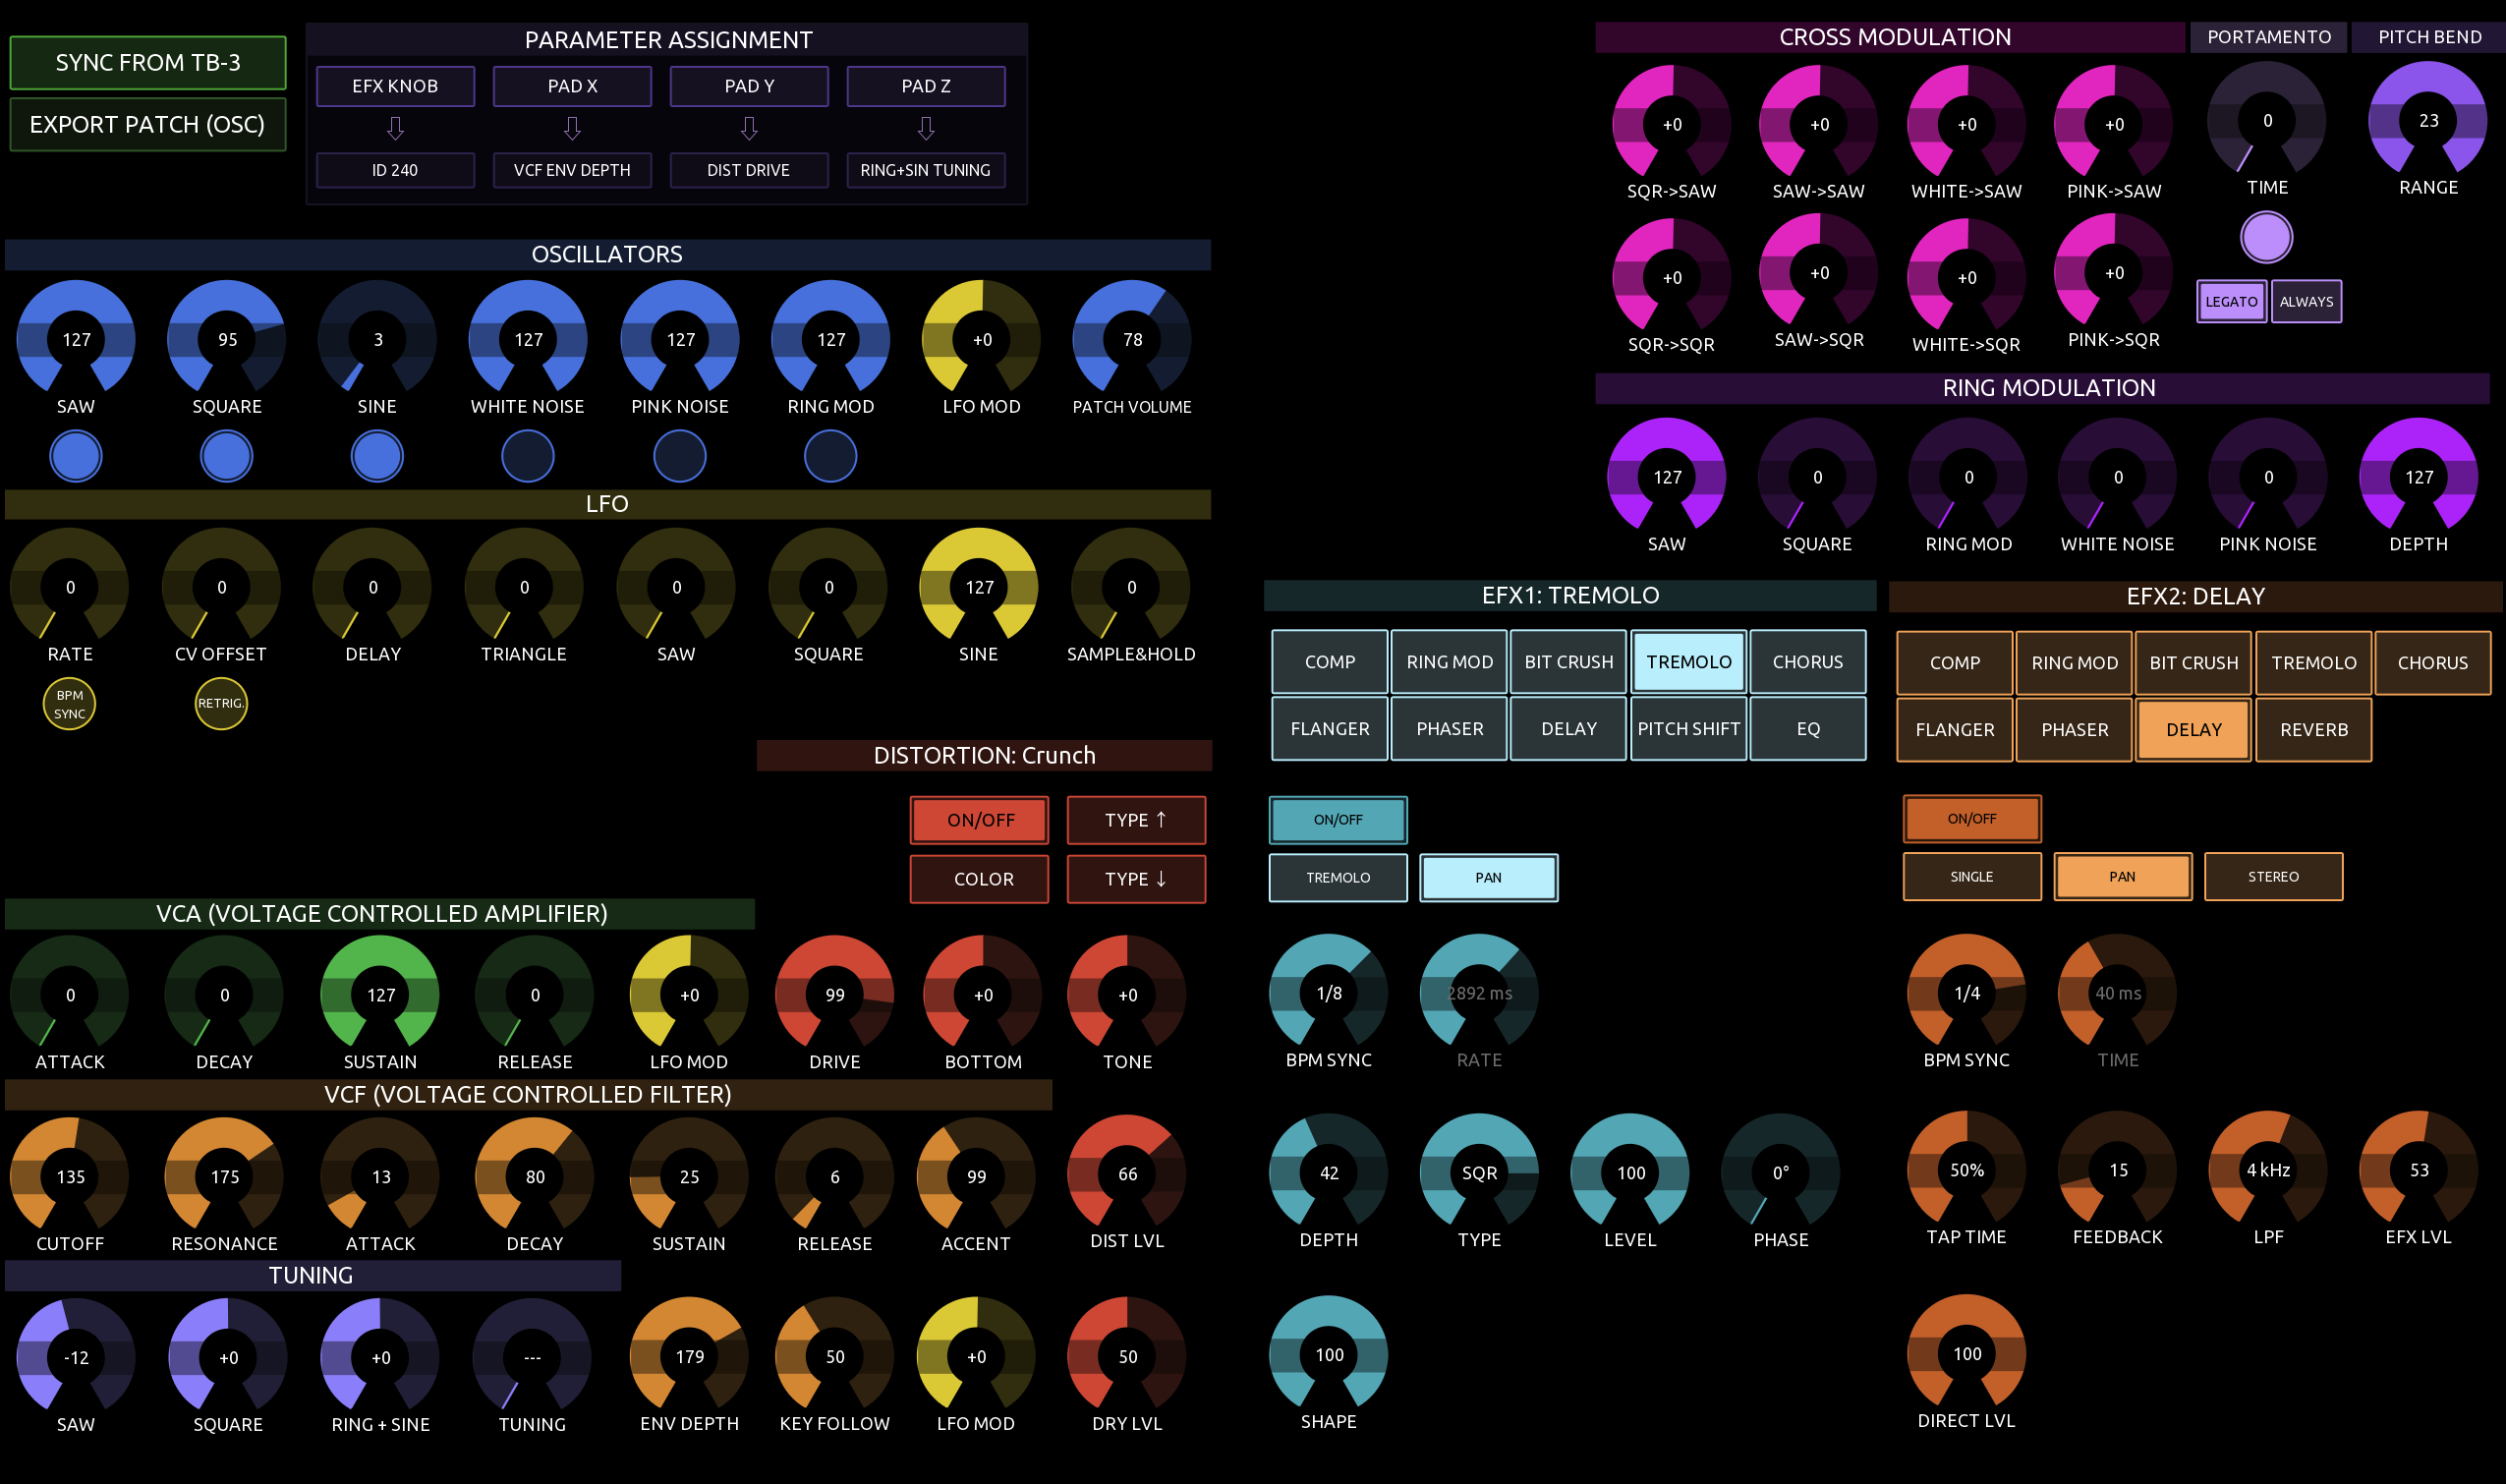
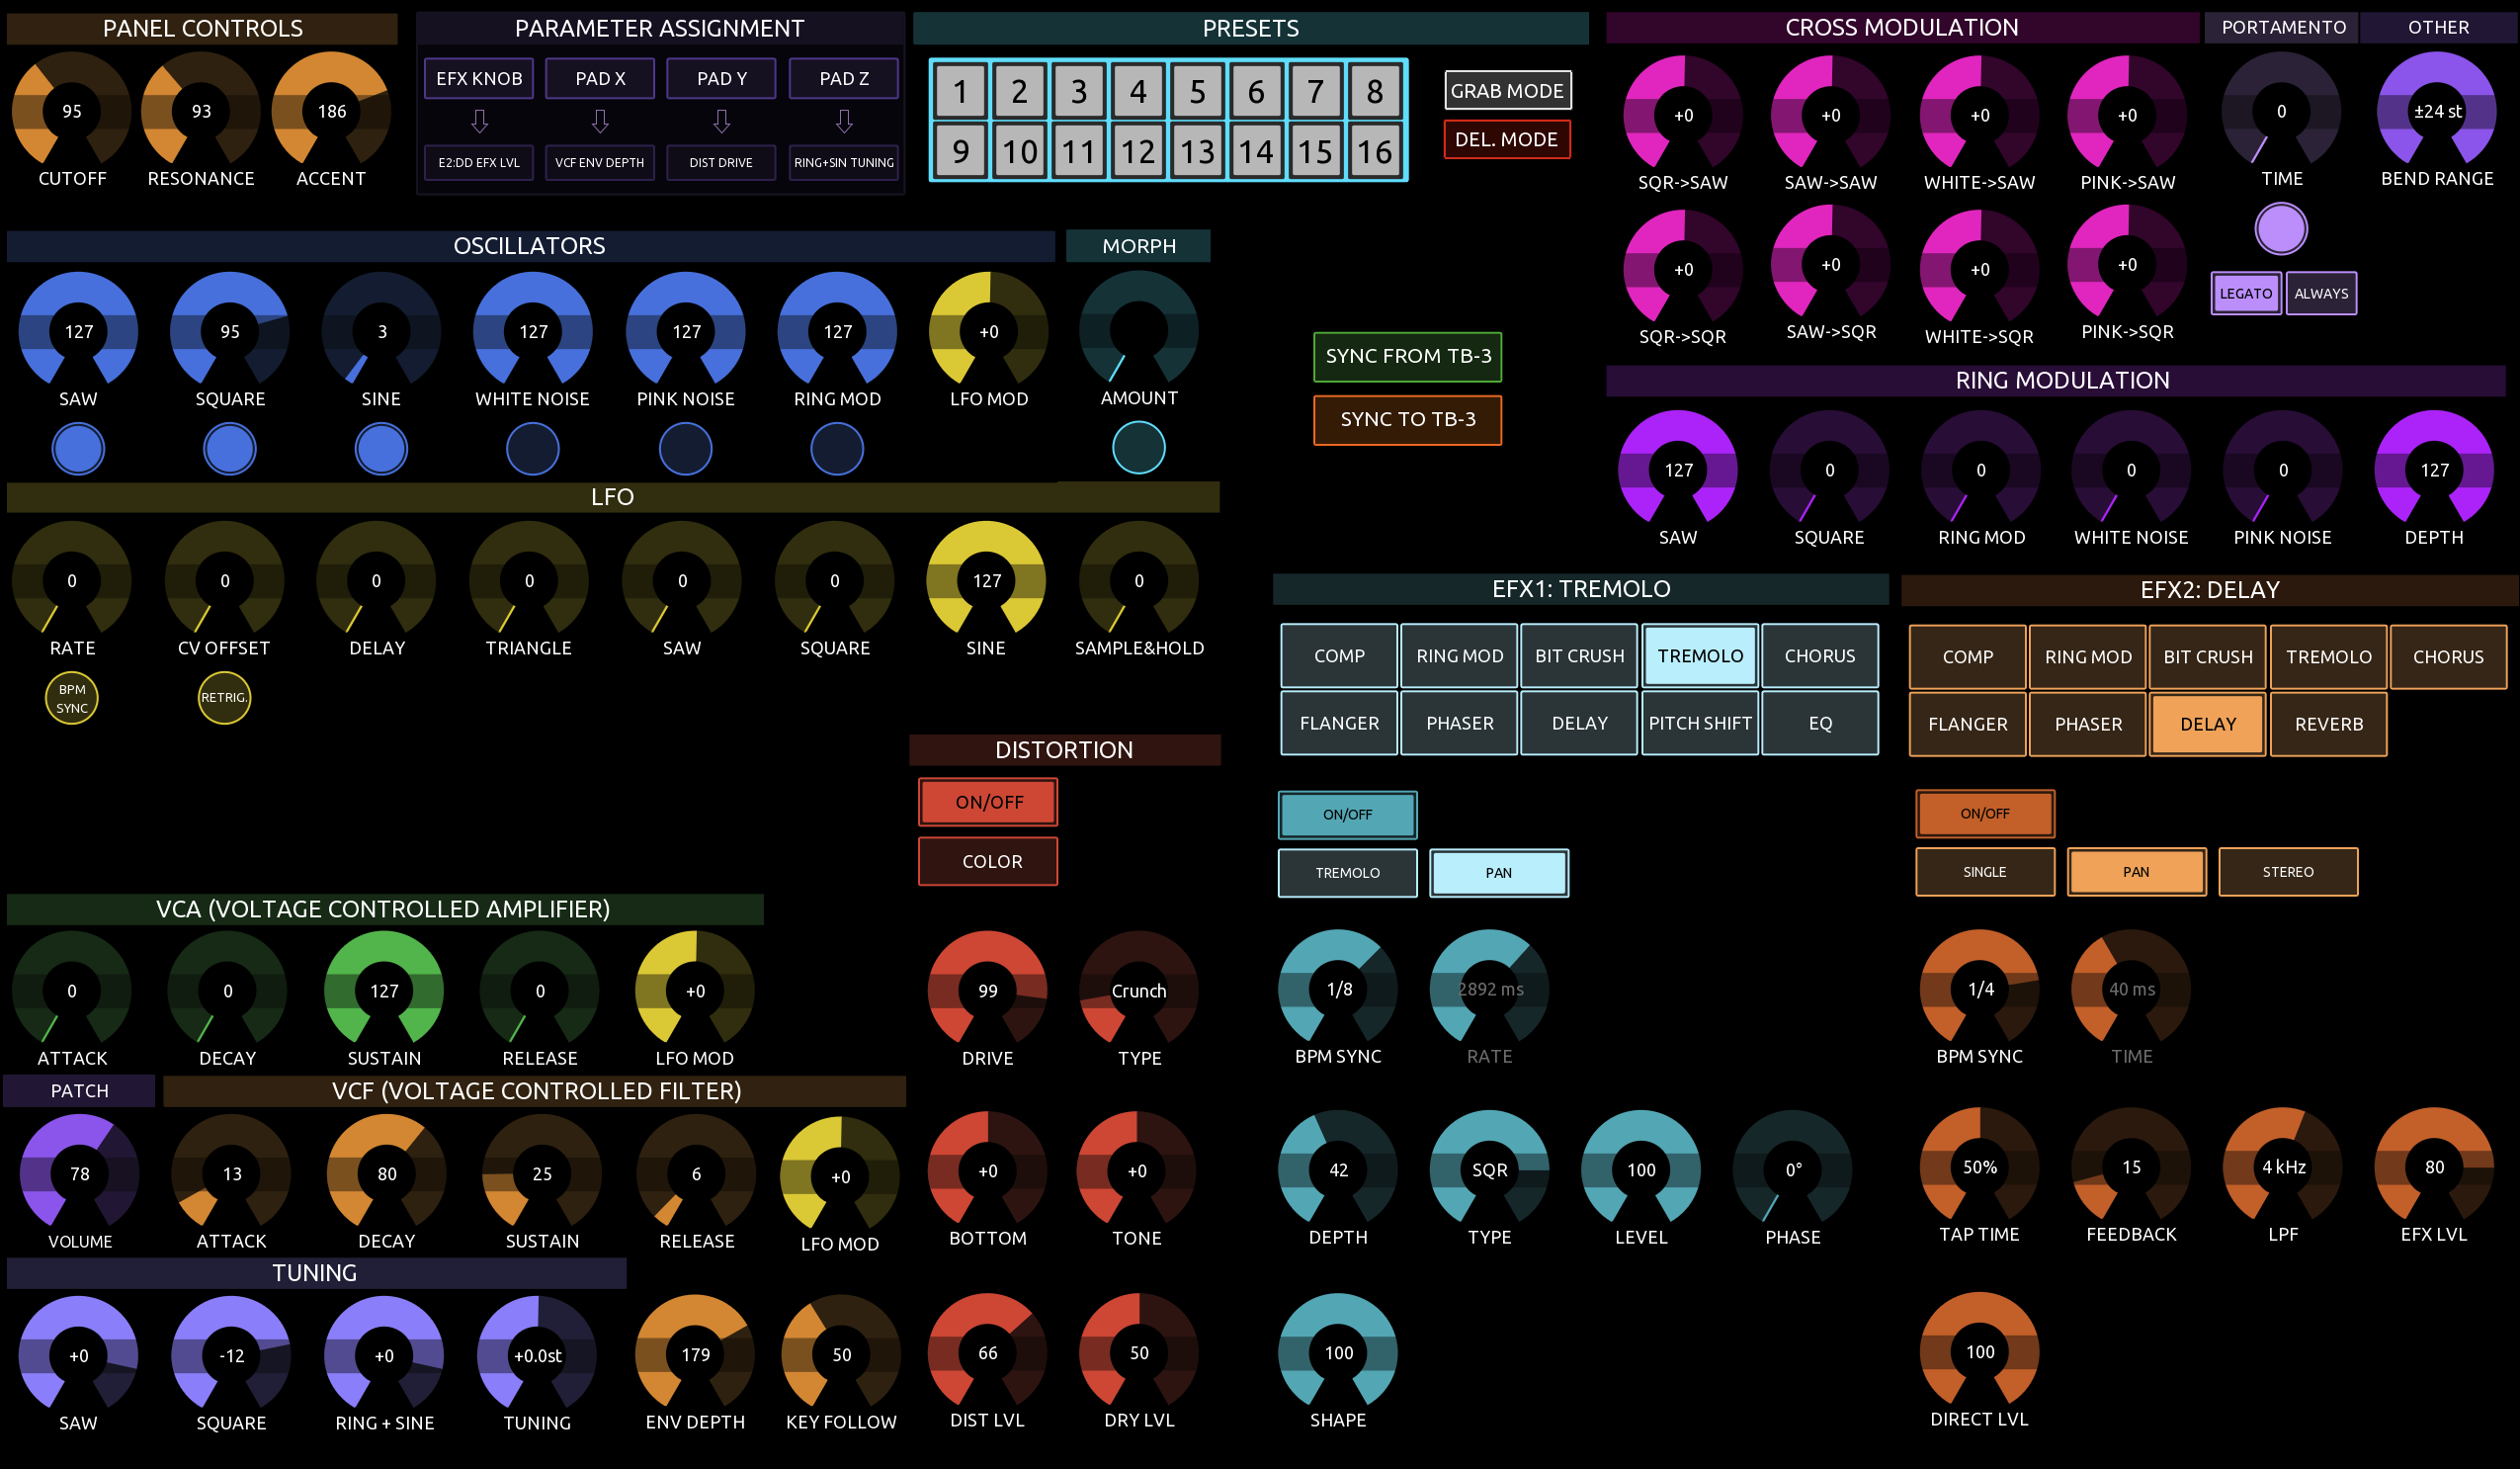
TB-3: fix receivingPatch scope, BCR radio echo, and patch_volume_enc group
- Extend receivingPatch guard to cover EFX section notify so applyType()
  slot updates don't echo back to the TB-3 via sendSlotFromFloat
- In efx_section: siblings now get CC=0 on BCR-driven button press so BCR
  follows the radio-button logic; clears previously active button on hardware
- enc_map/patch_manager: patch_volume_enc group corrected to patch_group
- efx_section: drop DELAY btns preset (ratio shortcuts removed from UI)
- screenshots/C06.png: updated to current layout

diff --git a/tb-3/plans/tb-3_remediation_plan_a2bffe94.plan.md b/tb-3/plans/tb-3_remediation_plan_a2bffe94.plan.md
@@ -1,0 +1,152 @@
+---
+name: TB-3 Remediation Plan
+overview: Clean up dead code, sync all documentation with the actual implementation, add agent-facing docs tuned for Claude Sonnet 4.6, and produce a verified backlog of behavioral issues to review.
+todos:
+  - id: dead-code
+    content: Delete 5 orphaned lua scripts and remove dead handlers/stale comments in root.lua and bcr_map.lua
+    status: pending
+  - id: claude-md
+    content: Create tb-3/CLAUDE.md with architecture, include-order contract, notify message table, and tag conventions
+    status: pending
+  - id: root-claude
+    content: Add TB-3 section/pointer to repo-root CLAUDE.md
+    status: pending
+  - id: lua-readme
+    content: Regenerate lua/README.md script table to match toscbuild.json
+    status: pending
+  - id: user-readme
+    content: Sync tb-3/README.md with actual UI per screenshot (SYNC TO TB-3, morph AMOUNT encoder, drop DELETE ALL, TYPE encoder, add missing sections)
+    status: pending
+  - id: pm-readme
+    content: Update preset-manager/README.md for tabbed UI, button names, and bank format v2
+    status: pending
+  - id: plans-status
+    content: Add divergence/status headers to both plans docs and a tools/ script index
+    status: pending
+  - id: code-health
+    content: Merge mode-toggle buttons into one script, fix accidental globals, mark forced duplication, comment rot pass
+    status: pending
+  - id: backlog
+    content: Write plans/review-backlog.md with behavioral findings and code-health refactor follow-ups
+    status: pending
+  - id: hygiene
+    content: Gitignore tb-3/backups and .tosc.bak files; delete TB3.tosc.bak_naming
+    status: pending
+  - id: verify
+    content: Rebuild with toscbuild.py and verify clean diff and doc/manifest consistency
+    status: pending
+isProject: false
+---
+
+# TB-3 Remediation Plan
+
+## Context
+
+Review of [tb-3](tb-3) found three categories of problems: (1) orphaned/dead code from superseded UI iterations, (2) documentation that describes the old UI rather than the current one, and (3) zero agent-facing guidance — the repo-root `CLAUDE.md` covers only sp404-mk2. Behavioral bugs found during review are captured as a review backlog, not fixed in this pass.
+
+## 1. Dead code removal
+
+Per your answers, all five orphaned scripts are dropped:
+
+- Delete [lua/dist_type_button.lua](tb-3/lua/dist_type_button.lua), [lua/delete_all_presets_button.lua](tb-3/lua/delete_all_presets_button.lua), [lua/save_to_library_btn.lua](tb-3/lua/save_to_library_btn.lua), [lua/morph_amount_fader.lua](tb-3/lua/morph_amount_fader.lua), [lua/porta_mode_button.lua](tb-3/lua/porta_mode_button.lua). None are in `toscbuild.json`; verified `morph_enc` (root.lua ~1040) and `porta_radio_btn.lua` fully replace the fader/toggle paths.
+- In [lua/root.lua](tb-3/lua/root.lua): remove the `dist_type_up`/`dist_type_dn` handlers (~1177–1187) which call the **undefined** `sendDistType()`; remove the now-orphaned `save_to_library` handler (~1324) and `patch_clear_all` handler (~1457) if nothing else reaches them; fix stale comments ("Grab / Morph: stubbed" ~1378; `control_fader.lua:15` "silently ignored" claim).
+- Remove the empty `BCR2_MAP` placeholder in [lua/bcr_map.lua](tb-3/lua/bcr_map.lua) (~154) or annotate why it's reserved; fix the wrong CC header comment (~37: says CC 79/80 = DIST TYPE, map says CC 79 = DIST COLOR).
+- Rebuild with `python3 tools/toscbuild.py build tb-3` and verify a clean diff (script-only changes).
+
+## 2. Agent-facing documentation (Claude Sonnet tuning)
+
+The biggest drag on AI-assisted development is implicit knowledge. Create:
+
+- **`tb-3/CLAUDE.md`** — the primary deliverable. Contents:
+  - Architecture summary: root chunk = `bcr_map.lua` + `patch_manager.lua` + `enc_map.lua` + `root.lua` concatenated in that order (shared upvalues like `distType`, `rawSysexBlocks`, `assignedParamIds` depend on this order — currently undocumented and silently breakable).
+  - **Notify message contract**: table of all ~25 notify keys with payload formats (`"section,enc,x"`, `"slot,bcr"`, etc.), sender → receiver. This is the IPC backbone and currently requires grepping `onReceiveNotify` across files.
+  - `self.tag` conventions: EFX sections overload tag as both `"prog"` guard string and JSON raw-byte cache ([lua/efx_section.lua](tb-3/lua/efx_section.lua) ~613/719/849).
+  - Dual data model warning: `rawSysexBlocks` in root excludes EFX blocks; EFX state lives in each section's tag.
+  - Build commands, connection constants (Connection 2 = BCR, 6 = TB-3), MIDI value scaling conventions.
+- **Repo-root [CLAUDE.md](CLAUDE.md)**: add a short TB-3 section pointing at `tb-3/CLAUDE.md` (currently zero TB-3 coverage).
+- **[lua/README.md](tb-3/lua/README.md)**: regenerate the script table to match `toscbuild.json` (10 mapped scripts are missing from it; 2 documented scripts are being deleted; include order is wrong — omits `enc_map.lua`).
+
+## 3. User documentation sync
+
+- **[README.md](tb-3/README.md)** — corrections verified against the current layout screenshot:
+  - **SYNC FROM TB-3** label is correct as-is (no rename needed despite the `receive_button` node name).
+  - Replace **SAVE TO LIBRARY** with **SYNC TO TB-3** and correct its semantics: pushes the current patch *to* the TB-3, not to the desktop app. Patch export to the desktop app is app-driven (Pull Patch) — move that into the preset-manager section.
+  - Morph: it's a **MORPH group with an AMOUNT encoder** (shows `--` when no target), not a fader. Update the mode-buttons table too: only **GRAB MODE** and **DEL. MODE** sit beside the preset grid; morph is armed via the MORPH group, not a third grid mode button.
+  - Delete the **DELETE ALL** paragraph (feature dropped).
+  - Distortion: TYPE ↑/↓ buttons → **TYPE encoder** (steps through the 25 types).
+  - The grid is headed **PRESETS** in the UI — align terminology ("Patch Grid" vs "Presets") with the layout.
+  - Add missing sections visible in the layout: **PANEL CONTROLS** (CUTOFF/RESONANCE/ACCENT — mirrors the TB-3's panel encoders via CC), **PARAMETER ASSIGNMENT** (EFX KNOB / PAD X / PAD Y / PAD Z slot-assign buttons with status labels), and **OTHER** (BEND RANGE; PORTAMENTO group with TIME + LEGATO/ALWAYS radios).
+  - Add a short contributor section (build command, link to `lua/README.md` and `plans/`).
+  - Optionally refresh `screenshots/C06.png` with the updated layout screenshot you provided (saved at `/Users/willellis/.cursor/projects/Users-willellis-Documents-Development-Github-touchosc-controllers-tb-3/assets/Screenshot_2026-06-10_at_18.08.03-72c7ceff-e4dd-4de3-ae3a-f69c471fa388.png`), since the README image predates the current UI.
+- **[preset-manager/README.md](tb-3/preset-manager/README.md)**: update to match `preset-manager.py` — Pull Bank / Send Bank / Send Patch button names, tabbed UI (900×560), bank format **v2** (`{"version": 2, "slots": {"1": {"name", "blocks"}}}`), Pull Patch via `/tb3/request_patch_export`.
+- **[plans/](tb-3/plans)**: add a status header to both plan docs noting divergences (morph encoder replaced the fader, DELETE ALL / SAVE TO LIBRARY dropped, bank format now v2) so future agents don't treat them as current specs.
+- **`tools/`**: add a brief index (in `tb-3/CLAUDE.md` or a small `tools/README.md`) marking `decode_patch.py`, `send_patch_osc.py`, `update_colors.py`, `fix_value_label_frames.py` as reusable and `add_efx_scripts.py`, `add_efx_button_labels.py`, `fix_b_labels_placement.py` as historical one-offs.
+
+## 4. Code health cleanups (this pass)
+
+Low-risk, non-functional improvements to do alongside the dead-code removal:
+
+- **Deduplicate mode-toggle buttons**: [lua/delete_button.lua](tb-3/lua/delete_button.lua), [lua/grab_mode_button.lua](tb-3/lua/grab_mode_button.lua), [lua/morph_button.lua](tb-3/lua/morph_button.lua) are identical except a `MODE` string. Merge into one `mode_button.lua` that derives its mode from `self.name`, mapped via a single `node_names` entry in `toscbuild.json` (same pattern as `porta_radio_btn.lua`).
+- **Fix accidental globals**: make `tb3Send7bit` / `tb3Send16bit` ([lua/root.lua](tb-3/lua/root.lua) ~176–192) `local` — root-chunk globals leak into every script environment and can mask typos.
+- **Mark forced duplication**: `tb3Checksum` / `sendParam` / connection constants are duplicated between root and [lua/efx_section.lua](tb-3/lua/efx_section.lua) (TouchOSC has no shared-library mechanism). Make the blocks byte-identical and add a "keep in sync with root.lua" header so drift is detectable.
+- **Comment rot pass**: fix all comments that contradict the code (grab/morph "stubbed", bcr_map CC header, `control_fader.lua` routing claim). Add a rule to `tb-3/CLAUDE.md`: header comments describe contracts, never implementation status; payload formats documented once at the sender.
+
+## 5. Behavioral review backlog (topics only, no fixes)
+
+Create `tb-3/plans/review-backlog.md` listing the verified findings for later investigation:
+
+- **BCR cache staleness**: `sendFromEntry()` (root.lua ~350) sends SysEx but doesn't update `rawSysexBlocks`, so BCR-only edits leave patch-grid snapshots/exports stale (UI path does update it).
+- **BCR tuning range mismatch**: bcr_map uses `max=255` for 16-bit tuning, enc_map/UI uses `max=151` — BCR can send out-of-range values.
+- **EFX type encoder asymmetry**: sync sends `floor(typeIdx/MAX_TYPE*127)`, receive decodes `floor(cc/10)` (efx_section.lua ~606 vs ~771) — inconsistent round-trip.
+- **Morph interpolates everything**: `applyMorph()` (root.lua ~905) linearly blends all block bytes including types/switches/assign IDs — can produce invalid intermediates.
+- **Store-to-empty-slot double press**: when no snapshot exists, the slot press triggers a dump request but doesn't auto-store after sync (root.lua ~1418).
+- **Panel CC labels**: `handleTB3CC` (root.lua ~620) hardcodes `floor(x*255)` for CC 16/71/74 regardless of the parameter's actual range/encoding.
+- **Data duplication drift risk**: `EFX_SLOT_OFFSETS_*` in patch_manager.lua manually mirrors `TYPE_DEFS` in efx_section.lua; same SysEx addresses also appear in bcr_map, enc_map, and the REGISTRY. Candidate for consolidation/codegen.
+- Minor: pointer.lua double-tap edge cases; duplicate `assign_xy_mod_status` label nodes in the layout; unverified flanger HPF / rate / compressor curves (already flagged in plans).
+
+Plus larger **code-health refactors** (deliberate follow-ups, not this pass):
+
+- **Namespace the root chunk**: the concatenated root chunk (`bcr_map` + `patch_manager` + `enc_map` + `root.lua`, ~2,500 lines) communicates via shared top-level locals with no declared ownership, and accumulates toward Lua 5.1's 200-locals-per-scope limit. Adopt a convention where each include exposes exactly one table (`BCR = {...}`, `PatchManager = {...}`) and root references only those namespaces.
+- **Single source of truth for parameter data**: SysEx address/range/scaling facts are hand-maintained in 4 places (`enc_map`, `bcr_map`, patch_manager REGISTRY + `EFX_SLOT_OFFSETS_*`, efx_section `TYPE_DEFS`). Consolidate into one data table (sp404's `controls_info.lua` pattern) with the maps derived at init.
+- **Standardize lookup/messaging idioms**: replace global `root:findByName(name, true)` searches (already needed a `saw_enc` collision workaround) with section-scoped `group.children[name]` lookups, and pick one of `self.parent:notify` vs `root:notify` as the convention.
+
+## 6. Repo hygiene
+
+- Add `tb-3/backups/` (133 files, 9.5 MB, build tool writes one per build) and `tb-3/*.tosc.bak*` to [.gitignore](.gitignore), mirroring the existing `sp404-mk2/backups/` entry.
+- Delete `TB3.tosc.bak_naming` (the build tool's backups supersede it).
+- Note in `tb-3/CLAUDE.md` that `.claude/settings.local.json` contains machine-specific absolute paths (leave the file, it's local config).
+
+## Verification
+
+After all edits: `python3 tools/toscbuild.py build tb-3` succeeds, `git status` shows only intended changes, and every script referenced in any README exists in `lua/` and `toscbuild.json`.
+
+## Execution notes (Claude Code Pro plan + Cursor)
+
+Run as **four focused sessions**, `/clear` (or a fresh Cursor chat) between each. Start every session with: "Execute session N of `tb-3_remediation_plan_a2bffe94.plan.md`". The plan file is the persistent state between sessions; one long session will snowball context and trigger auto-compaction right when the risky edits need full fidelity.
+
+**Tool split** — Claude Code (Anthropic $20 plan) and Cursor (Composer) bill against separate subscriptions, so route judgment-heavy work to Sonnet and mechanical work to Composer to preserve the Anthropic quota:
+
+- **Claude Code + Sonnet 4.6**: Session 1's CLAUDE.md authoring (a spec future agents treat as ground truth — prose precision matters) and all of Session 2 (contract verification across the concatenated root chunk; Composer's act-first tuning is riskier where comments lie).
+- **Cursor + Composer**: Session 1's hygiene half, Session 3 (corrections are fully specified in Section 3 — little judgment left), and Session 4 (pure search/build/diff loops — Composer is faster with no quality difference).
+- Whichever tool starts a session runs the **whole** session including its verification loop; don't split one session across tools.
+
+### Session order and model per phase
+
+- **Session 1 — Section 2 (agent docs) + Section 6 (repo hygiene)**
+  - Tool/model: Claude Code + Sonnet 4.6, thinking **off** (default mode — no Tab toggle, no "think" keywords). If splitting, the Section 6 hygiene items can go to a separate Cursor/Composer chat.
+  - Do this first: once `tb-3/CLAUDE.md` exists (notify table, include-order contract, tag conventions), every later session inherits that knowledge instead of re-reading `root.lua` (~64 KB) to rediscover it.
+  - Include in the CLAUDE.md: "never read `.tosc` files directly — use `python3 tools/toscbuild.py tree`" and ignore `backups/` and `resources/` (binary blobs that torch tokens if read).
+- **Session 2 — Section 1 (dead code) + Section 4 (code health)**
+  - Tool/model: Claude Code + Sonnet 4.6, thinking **off by default**; escalate **per-prompt** with the "think hard" keyword for exactly two steps: (a) verifying nothing reaches `save_to_library` / `patch_clear_all` before deleting them from `root.lua`, and (b) the mode-button merge (touches notify protocol + `toscbuild.json` together). Do not set a session-wide thinking level — it would apply the budget to every trivial turn.
+  - Verify in-session: `python3 tools/toscbuild.py build tb-3` then `git diff` — script-only changes expected.
+- **Session 3 — Section 3 (user docs) + Section 5 (review backlog)**
+  - Tool/model: Cursor + Composer (or Sonnet if preferred), thinking off. Pure text edits, fully specified in Sections 3 and 5; no code risk. Cheapest session; can batch freely.
+- **Session 4 — final verification pass**
+  - Tool/model: Cursor + Composer, thinking off. Rebuild, `git status`, cross-check every script name mentioned in any README against `lua/` and `toscbuild.json`. Short session of search/build/diff loops.
+
+### Settings
+
+- **Do not use Opus** — it burns Pro quota ~5x faster and nothing in this plan needs it.
+- **Thinking policy**: off by default everywhere; thinking tokens count as output tokens against quota. Escalate per-prompt with keywords only for the two flagged Session 2 steps — never set a session-wide "high" level.
+- Pre-approve in `.claude/settings.local.json`: `python3 tools/toscbuild.py build tb-3`, `git diff`, `git status` — verification loops shouldn't stall on permission prompts.
+- Add a `.claudeignore` (or CLAUDE.md rule) covering `*.tosc`, `backups/`, `resources/`, `screenshots/` before Session 2.